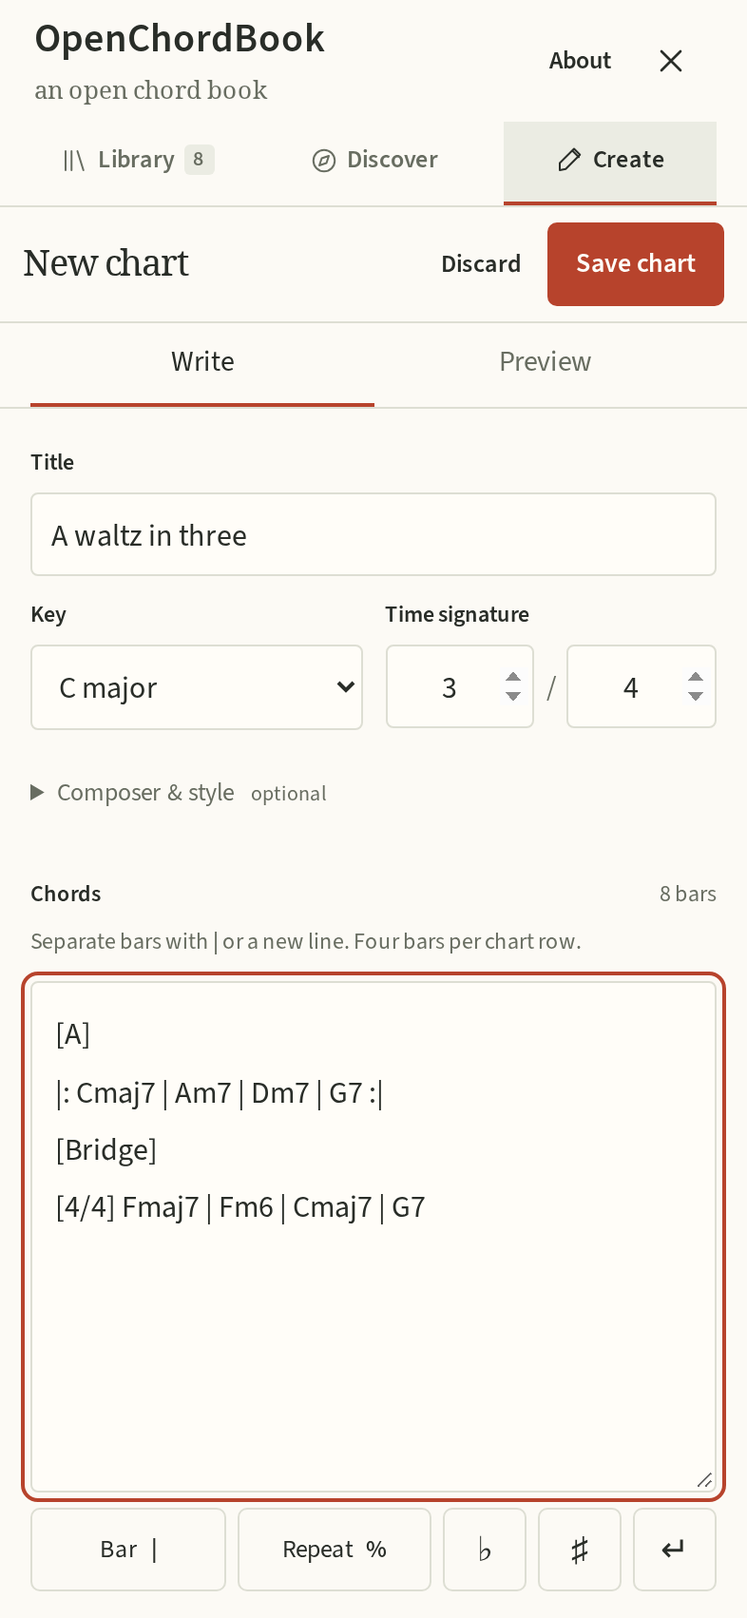
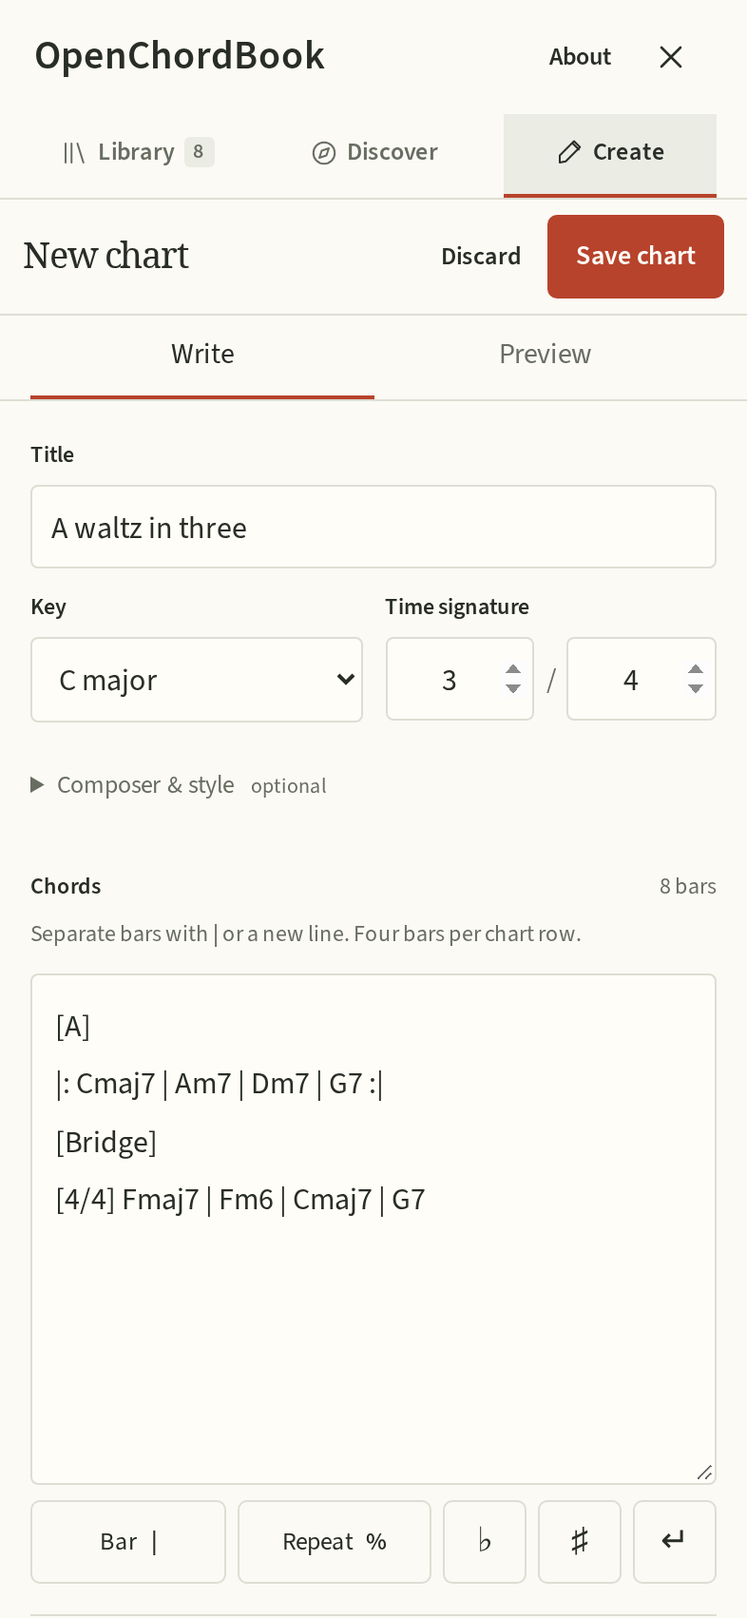
Simplify app headings and show chart creation in the README

diff --git a/src/styles.css b/src/styles.css
@@ -94,20 +94,15 @@ kbd { font: 11px monospace; border: 1px solid var(--line); padding: 1px 5px; bor
 #topbar { display: flex; align-items: center; gap: 12px; flex-shrink: 0; min-height: 100px; padding: 18px 40px; border-bottom: 1px solid var(--line); }
 #btn-library { display: inline-flex; }
 .topbar-title { flex: 1; min-width: 0; }
-.topbar-title .eyebrow { color: var(--muted); font-size: 9px; letter-spacing: .17em; }
-#song-title { font-size: 15px; font-weight: 400; margin: 5px 0 0; overflow: hidden; text-overflow: ellipsis; white-space: nowrap; }
+#song-title { font-size: 15px; font-weight: 400; margin: 0; overflow: hidden; text-overflow: ellipsis; white-space: nowrap; }
 .topbar-actions { display: flex; gap: 4px; }
 #btn-theme { color: var(--muted); }
 #btn-focus[aria-pressed="true"] { color: var(--accent); background: var(--accent-soft); }
 #viewport { position: relative; flex: 1; min-height: 0; overflow: auto; overscroll-behavior: contain; }
 #empty-state { max-width: 720px; margin: 0 auto; padding: 55px 40px; }
-.welcome-heading { padding: 15px 0 0; align-self: end; }
-.welcome-heading > .eyebrow { display: flex; align-items: center; gap: 9px; font-size: 9px; color: var(--accent); letter-spacing: .12em; white-space: nowrap; }
-.welcome-heading h2 { font: 400 clamp(42px,4.3vw,65px)/1.15 var(--serif); letter-spacing: -.055em; margin: 28px 0 22px; }
-.welcome-heading h2 em { color: var(--accent); font-weight: 400; }
 .welcome-description { color: var(--muted); font-size: 15px; line-height: 1.8; margin: 0; }
 
-.welcome-actions { grid-column: 1 / -1; margin-top: 32px; border-top: 1px solid var(--line); }
+.welcome-actions { margin-top: 32px; border-top: 1px solid var(--line); }
 .welcome-action { display: flex; width: 100%; align-items: center; gap: 22px; padding: 23px 4px; border: 0; border-bottom: 1px solid var(--line); border-radius: 0; text-align: left; }
 .action-number { align-self: flex-start; margin-top: 5px; color: var(--accent); font-size: 11px; font-variant-numeric: tabular-nums; }
 .action-copy { flex: 1; display: flex; flex-direction: column; gap: 7px; }
@@ -208,7 +203,7 @@ dialog menu { display: flex; justify-content: flex-end; gap: 8px; padding: 0; ma
 .import-option small { margin-top: 4px; color: var(--muted); font-size: 12px; }
 #toast { position: fixed; bottom: calc(100px + var(--safe-bottom)); left: 50%; transform: translateX(-50%); width: max-content; max-width: min(460px,calc(100vw - 32px)); background: var(--fg); color: var(--surface); padding: 12px 20px; border-radius: 5px; box-shadow: var(--shadow); font-size: 14px; z-index: 100; }
 @media (min-width: 901px) { #scrim { display: none; } #chart-sheet { width: calc(100% - 64px); } }
-@media (max-width: 1200px) and (min-width: 901px) { :root { --sidebar: 310px; } #empty-state { padding: 40px 36px 24px; column-gap: 20px; } .welcome-heading h2 { font-size: 44px; } }
+@media (max-width: 1200px) and (min-width: 901px) { :root { --sidebar: 310px; } #empty-state { padding: 40px 36px 24px; } }
 @media (max-width: 900px) {
   #library-drawer { width: min(390px,100vw); transform: translateX(-100%); transition: transform .22s ease; }
   #library-drawer.open { transform: translateX(0); }
@@ -217,7 +212,6 @@ dialog menu { display: flex; justify-content: flex-end; gap: 8px; padding: 0; ma
   #btn-library { display: inline-flex; }
   #topbar { min-height: 80px; padding: 12px 20px; }
   #empty-state { padding: 44px 48px 24px; max-width: 760px; }
-  .welcome-heading h2 { font-size: 52px; }
   #chart-sheet { margin: 24px; padding: 28px; }
   #toast { left: 50%; }
   .brand-header { min-height: 90px; }
@@ -225,15 +219,10 @@ dialog menu { display: flex; justify-content: flex-end; gap: 8px; padding: 0; ma
 }
 @media (max-width: 600px) {
   #topbar { min-height: 73px; padding: 10px 12px; gap: 9px; }
-  #song-title { font-size: 14px; margin-top: 3px; }
-  .topbar-title .eyebrow { font-size: 8px; letter-spacing: .13em; }
+  #song-title { font-size: 14px; }
   .topbar-actions { gap: 0; }
-  #empty-state { grid-template-columns: minmax(0,1fr) 115px; gap: 0 6px; padding: 32px 26px 24px; align-content: start; }
-  .welcome-heading { padding: 10px 0 0; align-self: center; position: relative; z-index: 1; }
-  .welcome-heading > .eyebrow { font-size: 7px; letter-spacing: .07em; gap: 6px; }
-  .red-rule { width: 15px; }
-  .welcome-heading h2 { font-size: 43px; margin: 23px 0 18px; }
-  .welcome-description { grid-column: 1 / -1; grid-row: 2; font-size: 13px; line-height: 1.9; margin: 18px 0 14px; }
+  #empty-state { padding: 32px 26px 24px; }
+  .welcome-description { font-size: 13px; line-height: 1.9; margin: 0 0 14px; }
   .welcome-actions { margin-top: 12px; }
   .welcome-action { gap: 13px; padding: 24px 0; }
   .action-copy strong { font-size: 19px; }
@@ -248,13 +237,12 @@ dialog menu { display: flex; justify-content: flex-end; gap: 8px; padding: 0; ma
   dialog { padding: 23px; }
   body.stage-view #chart-sheet { margin: 0; border: 0; min-height: 100%; }
 }
-@media (max-width: 360px) { #empty-state { padding: 24px 20px; grid-template-columns: minmax(0,1fr) 88px; } .welcome-heading h2 { font-size: 32px; } }
+@media (max-width: 360px) { #empty-state { padding: 24px 20px; } }
 @media (prefers-reduced-motion: reduce) { *, *::before, *::after { transition: none !important; scroll-behavior: auto !important; } }
 @media print { #library-drawer, #topbar, #bottombar, #toast, #scrim { display: none !important; } body, #viewport { overflow: visible; height: auto; } #workspace { margin: 0; height: auto; } #chart-sheet { margin: 0; padding: 0; border: 0; box-shadow: none; color: #000; background: #fff; width: 100%; } }
 
 /* Library navigation and folder browser. One scroll region, explicit locations. */
 .app-name { font-size: 21px; font-weight: 600; line-height: 1.2; }
-.app-name small { display: block; font: 13px var(--serif); color: var(--muted); margin-top: 5px; }
 .brand-header { display: flex; align-items: center; justify-content: space-between; min-height: 78px; padding: 14px 20px; }
 .brand-header .app-name { margin-right: auto; }
 #about-dialog { font-size: 14px; line-height: 1.6; }
@@ -331,8 +319,7 @@ dialog select { min-height: 48px; padding-right: 25px; }
   #library-drawer { width: min(420px,100vw); }
   .brand-header { min-height: 67px; padding: 10px 18px; }
   #empty-state { padding: 30px 26px; }
-  .welcome-heading h2 { font-size: 43px; }
-  .welcome-description { margin: 16px 0 28px; font-size: 14px; }
+  .welcome-description { margin: 0 0 24px; font-size: 14px; }
   .has-song #workspace { background: var(--paper); padding-top: 0; }
   .has-song #topbar, .has-song.stage-view #topbar { position: absolute; inset: var(--safe-top) 0 auto; z-index: 10; height: 44px; min-height: 44px; padding: 0 2px; border: 0; background: transparent; pointer-events: none; justify-content: space-between; }
   .has-song #topbar .topbar-title, .has-song #btn-theme, .has-song #btn-focus { display: none; }

diff --git a/index.html b/index.html
@@ -19,7 +19,7 @@
 ">
 <meta http-equiv="X-Content-Type-Options" content="nosniff">
 <meta name="referrer" content="no-referrer">
-<title>OpenChordBook — an open chord book</title>
+<title>OpenChordBook</title>
 <link rel="manifest" href="manifest.webmanifest">
 <link rel="icon" href="icons/icon.svg" type="image/svg+xml">
 <link rel="apple-touch-icon" href="icons/icon-192.png">
@@ -46,7 +46,7 @@
 
 <aside id="library-drawer" aria-label="Music library" aria-hidden="true" inert>
   <header class="brand-header">
-    <div class="app-name">OpenChordBook<small>an open chord book</small></div>
+    <div class="app-name">OpenChordBook</div>
     <button id="btn-about" class="text-btn">About</button>
     <button id="btn-close-library" class="icon-btn" aria-label="Close library"><svg><use href="#i-close"/></svg></button>
   </header>
@@ -123,7 +123,7 @@
 <div id="workspace">
   <header id="topbar">
     <button id="btn-library" class="icon-btn" aria-label="Open library" aria-controls="library-drawer" aria-expanded="false" title="Open library"><svg><use href="#i-library"/></svg></button>
-    <div class="topbar-title"><span class="eyebrow" id="view-label">an open chord book</span><h1 id="song-title">OpenChordBook</h1></div>
+    <div class="topbar-title"><h1 id="song-title">OpenChordBook</h1></div>
     <div class="topbar-actions">
       <button id="btn-chart-tools" class="icon-btn" aria-label="Chart settings" title="Chart settings" hidden><svg><use href="#i-tools"/></svg></button>
       <button id="btn-theme" class="icon-btn" aria-label="Switch to night mode" title="Switch to night mode"><svg><use href="#i-moon"/></svg></button>
@@ -133,7 +133,6 @@
 
   <main id="viewport">
     <section id="empty-state" hidden>
-      <div class="welcome-heading"><h2>an open<br><em>chord book</em></h2></div>
       <p class="welcome-description">Open a tune from your library, or import a playlist to get started.</p>
       <div class="welcome-actions">
         <button id="btn-import-empty" class="welcome-action"><span class="action-number">01</span><span class="action-copy"><strong>Import a playlist</strong><span>Import an iRealPro .html playlist or paste a link.</span></span><svg><use href="#i-arrow"/></svg></button>
@@ -161,7 +160,7 @@
 
 <dialog id="about-dialog" aria-labelledby="about-title">
   <div class="dialog-top"><h2 id="about-title">About OpenChordBook</h2><button class="icon-btn" data-close-dialog aria-label="Close about"><svg><use href="#i-close"/></svg></button></div>
-  <p>an open chord book · Version 1.17</p>
+  <p>Version 1.18</p>
   <p>Copyright © 2026 Alexandre Campo</p>
   <p>Free software: you can use, study, share and modify it under the GNU General Public License, version 3 or any later version. Provided without warranty.</p>
   <p>Your library stays on this device. No account, ads, analytics or tracking. Tunes are not packaged; they are downloaded by the user.</p>

diff --git a/src/app.js b/src/app.js
@@ -71,9 +71,8 @@ function showEmpty() {
   $('chart-container').replaceChildren();
   $('chart-sheet').hidden = $('bottombar').hidden = $('btn-focus').hidden = $('btn-chart-tools').hidden = true;
   $('empty-state').hidden = false;
-  $('view-label').textContent = 'an open chord book';
   $('song-title').textContent = 'OpenChordBook';
-  document.title = 'OpenChordBook — an open chord book';
+  document.title = 'OpenChordBook';
   setStageView(false);
 }
 
@@ -93,7 +92,6 @@ async function loadSong(id, preserveQueue = false) {
   state.transpose = 0;
   $('transpose-display').textContent = '0';
   $('song-title').textContent = song.title;
-  $('view-label').textContent = 'ON THE MUSIC STAND';
   $('chart-title').textContent = song.title;
   $('chart-composer').textContent = song.composer || 'Composer not listed';
   $('chart-style').textContent = [song.style || 'Chord chart', song.bpm ? `♩ ${song.bpm}` : ''].filter(Boolean).join('  ·  ');

diff --git a/sw.js b/sw.js
@@ -5,7 +5,7 @@
 // Only same-origin GETs are intercepted — never proxy or cache anything
 // cross-origin. Explicit playlist downloads are stored in IndexedDB instead.
 
-const VERSION = 'v29';
+const VERSION = 'v30';
 const CACHE = `openchordbook-${VERSION}`;
 
 const APP_SHELL = [

diff --git a/android/app/src/androidTest/java/io/github/openchordbook/SecurityInstrumentation.java b/android/app/src/androidTest/java/io/github/openchordbook/SecurityInstrumentation.java
@@ -24,7 +24,7 @@ import java.util.concurrent.atomic.AtomicReference;
 public final class SecurityInstrumentation extends Instrumentation {
     private WebView web;
     private int checks;
-    private static final String START = "https://appassets.androidplatform.net/assets/v18/web/index.html";
+    private static final String START = "https://appassets.androidplatform.net/assets/v19/web/index.html";
     @Override public void onCreate(Bundle args) { super.onCreate(args); start(); }
     @Override public void onStart() {
         Bundle result = new Bundle();
@@ -48,12 +48,12 @@ public final class SecurityInstrumentation extends Instrumentation {
             // Verify production WebViewClient decisions, including gestures and subframes.
             runOnMainSync(() -> {
                 WebViewClient client = web.getWebViewClient();
-                for (String url : new String[] { "https://appassets.androidplatform.net:444/assets/v18/web/index.html", "https://appassets.androidplatform.net/assets/v18/web/data/catalog.json", "data:text/html,hi", "javascript:alert(1)", "intent://scan/#Intent;scheme=zxing;end", "file:///etc/hosts", "content://contacts/people", "http://example.com/" }) {
+                for (String url : new String[] { "https://appassets.androidplatform.net:444/assets/v19/web/index.html", "https://appassets.androidplatform.net/assets/v19/web/data/catalog.json", "data:text/html,hi", "javascript:alert(1)", "intent://scan/#Intent;scheme=zxing;end", "file:///etc/hosts", "content://contacts/people", "http://example.com/" }) {
                     check(client.shouldOverrideUrlLoading(web, request(url, true, true)), "Block navigation " + url);
                 }
                 check(!client.shouldOverrideUrlLoading(web, request(START, true, true)), "Allow entry document");
                 check(client.shouldOverrideUrlLoading(web, request(START, false, true)), "Block frame navigation");
-                for (String url : new String[] { "https://example.com/", "https://appassets.androidplatform.net:444/assets/v18/web/index.html", "https://appassets.androidplatform.net/assets/v18/web/%2e%2e/catalog.json", "https://appassets.androidplatform.net/anything" }) {
+                for (String url : new String[] { "https://example.com/", "https://appassets.androidplatform.net:444/assets/v19/web/index.html", "https://appassets.androidplatform.net/assets/v19/web/%2e%2e/catalog.json", "https://appassets.androidplatform.net/anything" }) {
                     WebResourceResponse response = client.shouldInterceptRequest(web, request(url, false, false));
                     check(response != null && response.getStatusCode() == 403, "Block resource fallback " + url);
                 }
@@ -83,7 +83,7 @@ public final class SecurityInstrumentation extends Instrumentation {
             js("window.offlineReady=false; navigator.serviceWorker.ready.then(()=>window.offlineReady=true); true");
             await("window.offlineReady === true");
             checks++;
-            js("window.chartResult=''; (async()=>{const {parsePlaylist,savePlaylist}=await import('https://appassets.androidplatform.net/assets/v18/web/src/import.js'); const s=await import('https://appassets.androidplatform.net/assets/v18/web/src/storage.js'); const {renderSong}=await import('https://appassets.androidplatform.net/assets/v18/web/src/viewer.js'); const p=parsePlaylist('irealb://'+encodeURIComponent('Isolated test=Tester==Swing=C==[C |G7 Z==120=3')); const saved=await savePlaylist(p,null); const record=await s.getSong(saved.songIds[0]); const container=document.createElement('div'); renderSong(record,container,{transpose:2}); window.chartResult=container.querySelectorAll('irr-chord').length > 0 ? 'PASS':'FAIL';})().catch(e=>window.chartResult=e.message); true");
+            js("window.chartResult=''; (async()=>{const {parsePlaylist,savePlaylist}=await import('https://appassets.androidplatform.net/assets/v19/web/src/import.js'); const s=await import('https://appassets.androidplatform.net/assets/v19/web/src/storage.js'); const {renderSong}=await import('https://appassets.androidplatform.net/assets/v19/web/src/viewer.js'); const p=parsePlaylist('irealb://'+encodeURIComponent('Isolated test=Tester==Swing=C==[C |G7 Z==120=3')); const saved=await savePlaylist(p,null); const record=await s.getSong(saved.songIds[0]); const container=document.createElement('div'); renderSong(record,container,{transpose:2}); window.chartResult=container.querySelectorAll('irr-chord').length > 0 ? 'PASS':'FAIL';})().catch(e=>window.chartResult=e.message); true");
             await("window.chartResult.length > 0");
             check("\"PASS\"".equals(js("window.chartResult")), "Chart import/render: " + js("window.chartResult"));
             // Exercise the real message channel, activity result and file writer.
@@ -96,7 +96,7 @@ public final class SecurityInstrumentation extends Instrumentation {
             check("\"cancelled\"".equals(js("window.exportResult")) && cancelledPicker.getHits() == 1, "Save picker cancellation");
             removeMonitor(cancelledPicker);
             ActivityMonitor savePicker = exportPicker(new ActivityResult(Activity.RESULT_OK, new Intent().setData(exportUri)));
-            js("window.exportResult=''; (async()=>{const s=await import('https://appassets.androidplatform.net/assets/v18/web/src/storage.js'); const {createPlaylistFile}=await import('https://appassets.androidplatform.net/assets/v18/web/src/playlist-export.js'); window.exportText=createPlaylistFile(await s.listSongs(),'Études ♭').text; window.exportResult=await window.openchordbookNative.savePlaylist('Études.html',window.exportText);})().catch(e=>window.exportResult=e.message); true");
+            js("window.exportResult=''; (async()=>{const s=await import('https://appassets.androidplatform.net/assets/v19/web/src/storage.js'); const {createPlaylistFile}=await import('https://appassets.androidplatform.net/assets/v19/web/src/playlist-export.js'); window.exportText=createPlaylistFile(await s.listSongs(),'Études ♭').text; window.exportResult=await window.openchordbookNative.savePlaylist('Études.html',window.exportText);})().catch(e=>window.exportResult=e.message); true");
             await("window.exportResult.length > 0");
             check("\"saved\"".equals(js("window.exportResult")) && savePicker.getHits() == 1, "Export reports success after writing: " + js("window.exportResult") + " (picker hits " + savePicker.getHits() + ")");
             try (java.io.InputStream input = getTargetContext().getContentResolver().openInputStream(exportUri)) {
@@ -125,7 +125,7 @@ public final class SecurityInstrumentation extends Instrumentation {
                 {"jazz-standards-jazz-1460-standards", "1460"}
             };
             for (String[] collection : collections) {
-                js("window.downloadResult=''; window.openchordbookNative.fetchPlaylist(" + JSONObject.quote(collection[0]) + ").then(async text=>{const {parsePlaylist}=await import('https://appassets.androidplatform.net/assets/v18/web/src/import.js'); window.downloadResult='songs:'+parsePlaylist(text).songs.length;}).catch(e=>window.downloadResult=e.message); true");
+                js("window.downloadResult=''; window.openchordbookNative.fetchPlaylist(" + JSONObject.quote(collection[0]) + ").then(async text=>{const {parsePlaylist}=await import('https://appassets.androidplatform.net/assets/v19/web/src/import.js'); window.downloadResult='songs:'+parsePlaylist(text).songs.length;}).catch(e=>window.downloadResult=e.message); true");
                 await("window.downloadResult.length > 0", 35000);
                 check(JSONObject.quote("songs:" + collection[1]).equals(js("window.downloadResult")), collection[0] + ": " + js("window.downloadResult"));
             }

diff --git a/tests/native/NativeSecurityTest.java b/tests/native/NativeSecurityTest.java
@@ -37,9 +37,9 @@ public final class NativeSecurityTest {
         rejects(() -> NetworkPolicy.download("https://dl.dropboxusercontent.com/export", "forums.irealpro.com"));
         for (String ip : Arrays.asList("0.0.0.0", "10.0.0.1", "127.0.0.1", "169.254.169.254", "172.16.0.1", "192.168.1.1", "100.64.0.1", "198.18.0.1", "224.0.0.1", "255.255.255.255", "::", "::1", "fe80::1", "fc00::1", "fd00::1", "ff00::1", "::ffff:127.0.0.1")) check(!NetworkPolicy.publicAddress(InetAddress.getByName(ip)));
         for (String ip : Arrays.asList("8.8.8.8", "1.1.1.1", "2606:4700:4700::1111")) check(NetworkPolicy.publicAddress(InetAddress.getByName(ip)));
-        String start="https://appassets.androidplatform.net/assets/v18/web/index.html";
+        String start="https://appassets.androidplatform.net/assets/v19/web/index.html";
         check(NetworkPolicy.appDocument(start)); check(NetworkPolicy.appDocument(start+"#chart"));
-        for (String url : Arrays.asList(start+"?url=evil",start.replace(".net/", ".net:444/"),start.replace("/index.html", "/%2e%2e/secret"),start.replace("/index.html", "/../secret"),start.replace("https", "http"),"https://appassets.androidplatform.net.evil/assets/v18/web/index.html")) check(!NetworkPolicy.appDocument(url));
+        for (String url : Arrays.asList(start+"?url=evil",start.replace(".net/", ".net:444/"),start.replace("/index.html", "/%2e%2e/secret"),start.replace("/index.html", "/../secret"),start.replace("https", "http"),"https://appassets.androidplatform.net.evil/assets/v19/web/index.html")) check(!NetworkPolicy.appDocument(url));
         check(!NetworkPolicy.externalLink("intent://open")); check(!NetworkPolicy.externalLink("http://example.com")); check(NetworkPolicy.externalLink("https://example.com/"));
 
         String uri="irealb://"+URLEncoder.encode("Fixture=Tester==Swing=C==1r34LbKcu7[C Z==120=3===Test book", "UTF-8").replace("+", "%20");

diff --git a/android/app/src/main/java/io/github/openchordbook/MainActivity.java b/android/app/src/main/java/io/github/openchordbook/MainActivity.java
@@ -121,7 +121,7 @@ public class MainActivity extends Activity {
         webView.requestApplyInsets();
 
         final WebViewAssetLoader assetLoader = new WebViewAssetLoader.Builder()
-                .addPathHandler("/assets/v18/", new WebViewAssetLoader.AssetsPathHandler(this))
+                .addPathHandler("/assets/v19/", new WebViewAssetLoader.AssetsPathHandler(this))
                 .build();
 
         WebSettings settings = webView.getSettings();
@@ -131,7 +131,7 @@ public class MainActivity extends Activity {
         settings.setAllowContentAccess(false);
         settings.setMediaPlaybackRequiresUserGesture(true);
         settings.setMixedContentMode(WebSettings.MIXED_CONTENT_NEVER_ALLOW);
-        settings.setUserAgentString(settings.getUserAgentString() + " openchordbook/1.17");
+        settings.setUserAgentString(settings.getUserAgentString() + " openchordbook/1.18");
         settings.setSupportMultipleWindows(true);
         settings.setJavaScriptCanOpenWindowsAutomatically(false);
 

diff --git a/android/app/src/main/java/io/github/openchordbook/PlaylistDownloader.java b/android/app/src/main/java/io/github/openchordbook/PlaylistDownloader.java
@@ -66,7 +66,7 @@ final class PlaylistDownloader {
                 conn.setConnectTimeout(job.remainingMs());
                 conn.setReadTimeout(job.remainingMs());
                 conn.setUseCaches(false);
-                conn.setRequestProperty("User-Agent", "openchordbook-android/1.17 (user-initiated playlist download)");
+                conn.setRequestProperty("User-Agent", "openchordbook-android/1.18 (user-initiated playlist download)");
                 conn.setRequestProperty("Accept-Encoding", "identity");
                 int code = conn.getResponseCode();
                 job.check();

diff --git a/android/app/src/main/java/io/github/openchordbook/NetworkPolicy.java b/android/app/src/main/java/io/github/openchordbook/NetworkPolicy.java
@@ -11,7 +11,7 @@ import java.util.Set;
 /** No Android dependencies, so the same policy can be tested on the JVM. */
 final class NetworkPolicy {
     // Same origin preserves IndexedDB; a versioned path bypasses older service workers.
-    static final String ASSET_PATH = "/assets/v18/web/";
+    static final String ASSET_PATH = "/assets/v19/web/";
     static final String ASSET_HOST = "appassets.androidplatform.net";
     private static final Set<String> DOWNLOAD_HOSTS = new HashSet<>(Arrays.asList(
             "forums.irealpro.com", "www.martingioani.com", "dl.dropboxusercontent.com"));

diff --git a/packaging/fdroid/README.md b/packaging/fdroid/README.md
@@ -4,7 +4,7 @@ Application ID: `io.github.openchordbook` · License: `GPL-3.0-or-later`
 
 [metadata/io.github.openchordbook.yml](metadata/io.github.openchordbook.yml) is the
 submission recipe for https://github.com/AlexandreCampo/OpenChordBook, candidate
-`v1.17` / versionCode 18. The tag and a successful public-source build must
+`v1.18` / versionCode 19. The tag and a successful public-source build must
 exist before submission. Inclusion is not approved by the presence of this file.
 
 ## Eligibility and review points
@@ -41,7 +41,7 @@ publication; switching signing keys later is disruptive.
 
 ## Submit the recipe
 
-1. Review, commit and publish the source with the `v1.17` tag. Follow
+1. Review, commit and publish the source with the `v1.18` tag. Follow
    [the release checklist](../../docs/releases.md). Confirm that the permanent
    application ID is unique and uses a namespace appropriate for the project.
 2. Fork `https://gitlab.com/fdroid/fdroiddata` under your GitLab account and clone
@@ -86,7 +86,7 @@ index signing and update availability. Follow the
    Keep its generated config and repository key private and securely backed up.
 2. Set the public repo URL/name/description. [config.example.yml](config.example.yml)
    shows those public fields; preserve the signing settings created by `fdroid init`.
-3. Copy the signed APK to `repo/io.github.openchordbook_18.apk`. Copy this app's
+3. Copy the signed APK to `repo/io.github.openchordbook_19.apk`. Copy this app's
    recipe to `metadata/io.github.openchordbook.yml`, and its fastlane `en-US` folder
    to `metadata/io.github.openchordbook/en-US` in the private work directory.
 4. Run `fdroid update` and upload **only `repo/`** to the configured HTTPS URL.

diff --git a/docs/releases.md b/docs/releases.md
@@ -2,7 +2,7 @@
 
 Public source: https://github.com/AlexandreCampo/OpenChordBook
 
-The first public candidate is **1.17 / versionCode 18**. The source uses
+The first public candidate is **1.18 / versionCode 19**. The source uses
 GPL-3.0-or-later; copyright © 2026 Alexandre Campo. This repository does not
 publish automatically. Review the source before committing, tagging or pushing.
 
@@ -28,13 +28,13 @@ the F-Droid recipe's version/build block. Keep APK version codes increasing.
 ## Source and APK artifacts
 
 After review, commit the intended source and create the matching annotated
-release tag (for this candidate, `v1.17`). Do not move an already published tag.
+release tag (for this candidate, `v1.18`). Do not move an already published tag.
 Build the release from that exact revision, using your existing private APK key.
 
 From a clean committed checkout:
 
 ```sh
-python3 scripts/export-source.py dist/openchordbook-1.17-source.tar.gz
+python3 scripts/export-source.py dist/openchordbook-1.18-source.tar.gz
 ```
 
 The exporter refuses a dirty tree and includes committed source/build scripts,
@@ -43,8 +43,8 @@ also rejects common private signing/config paths. It never creates a commit.
 
 Publish a GitHub release for the matching tag, attaching:
 
-- `openchordbook-1.17.apk`, signed with the intended developer key.
-- `openchordbook-1.17-source.tar.gz`, from that exact source revision.
+- `openchordbook-1.18.apk`, signed with the intended developer key.
+- `openchordbook-1.18-source.tar.gz`, from that exact source revision.
 - SHA-256 checksums and the release notes.
 
 Keep corresponding source available alongside each distributed APK. Checksums

diff --git a/README.md b/README.md
@@ -1,7 +1,5 @@
 # OpenChordBook
 
-**an open chord book**
-
 Read, write and organize chord charts on your phone, tablet or computer.
 OpenChordBook puts the sheet first: a full-screen reading view, transposition
 without hiding the chords, and a library that stays on your device.
@@ -13,6 +11,11 @@ You can also write your own charts or import playlists.
 <p>
   <img src="fastlane/metadata/android/en-US/images/phoneScreenshots/2-reader.png" width="240" alt="A full-screen practice chart in the reader">
   <img src="fastlane/metadata/android/en-US/images/phoneScreenshots/1-library.png" width="240" alt="The library with a folder path, tune search and saved practice charts">
+</p>
+
+<p>
+  <img src="fastlane/metadata/android/en-US/images/phoneScreenshots/4-create.png" width="240" alt="Create view with chord entry, sections and time signatures">
+  <img src="fastlane/metadata/android/en-US/images/phoneScreenshots/5-preview.png" width="240" alt="Chart preview in the Create view">
 </p>
 
 ## What it does
